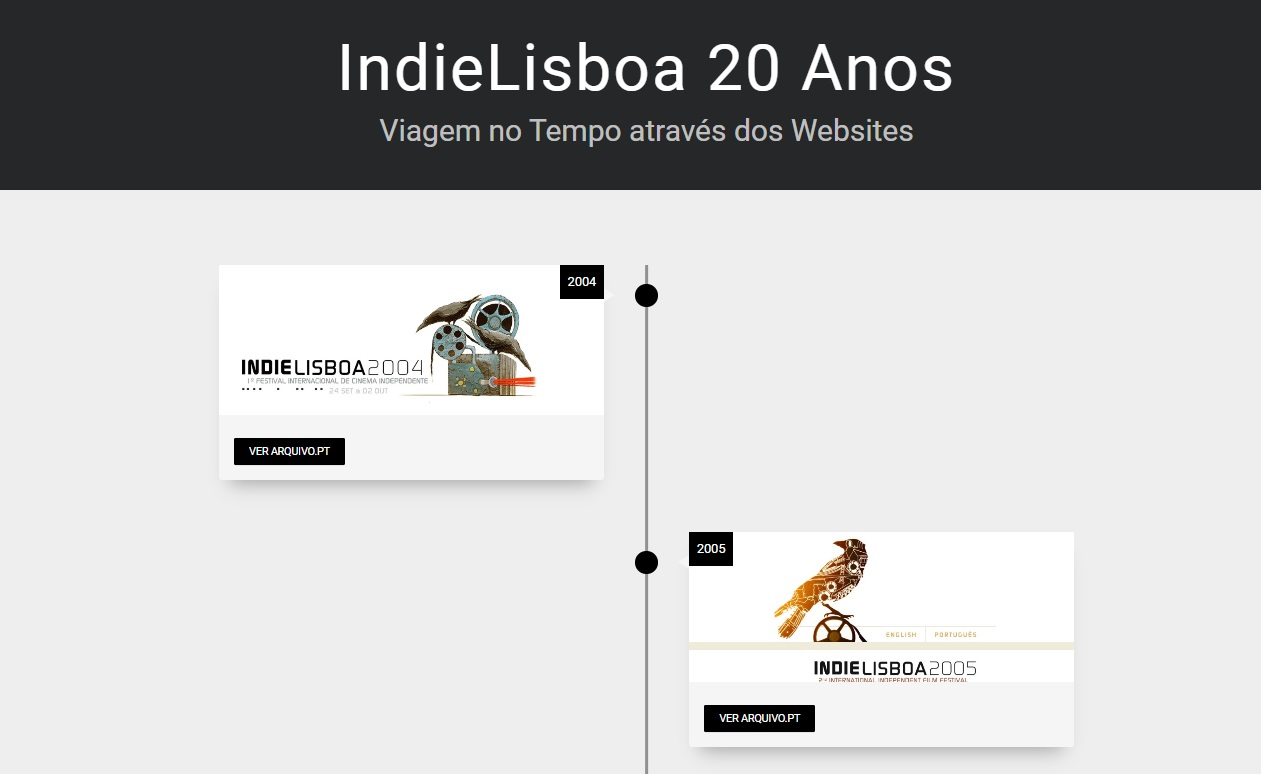
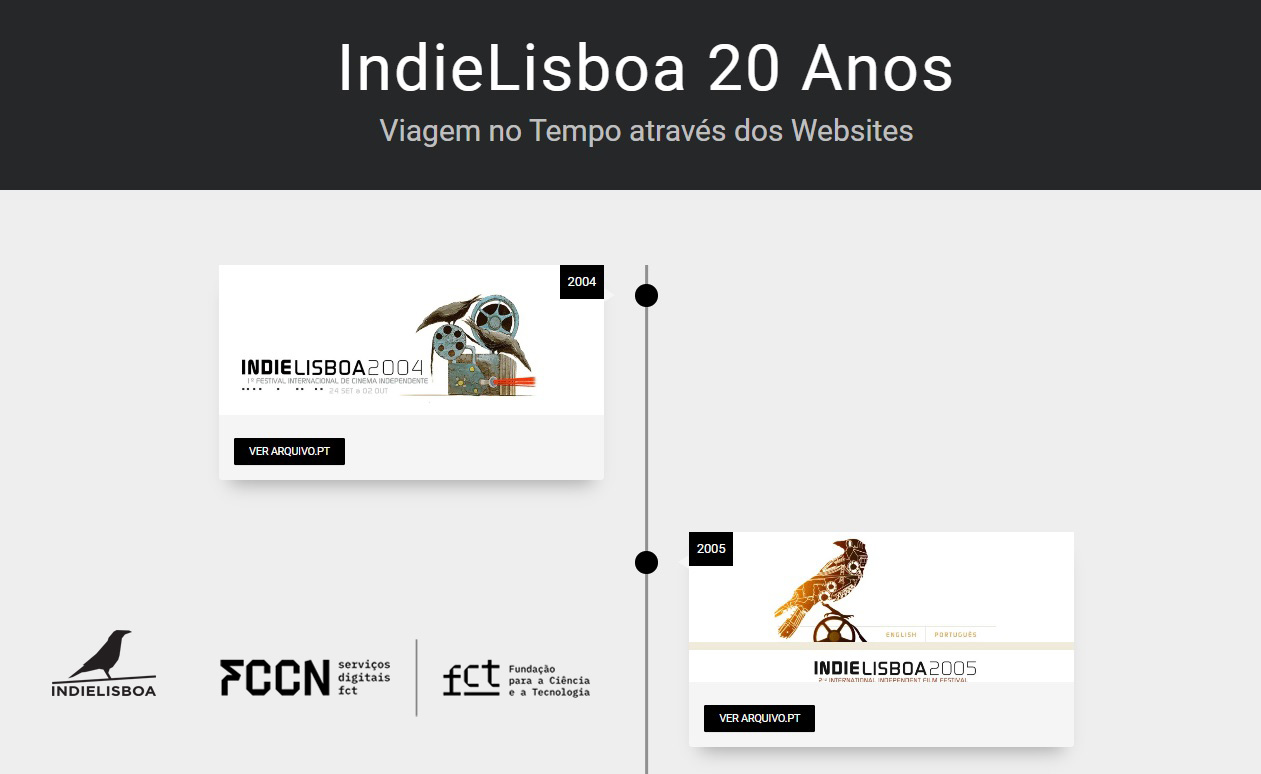
update year card, image 2024,text on sobre_html to the timetravel indielisboa

Changed region(s): [[0.1546, 0.8372, 0.3093, 0.8992], [0.3402, 0.8372, 0.4639, 0.8992], [0.0309, 0.8062, 0.1237, 0.8992]]

diff --git a/indielisboa20anos/sobre.html b/indielisboa20anos/sobre.html
@@ -22,24 +22,23 @@
   <div class="container">
     
     <div id="2004" class="timeline-item">
-        <p style="font-size: 130%;">O Arquivo.pt é um serviço público de preservação da Web que disponibiliza conteúdos publicados nos Websites ao longo do tempo. É operado pela FCCN Serviços digitais da Fundação para a Ciência e a Tecnologia.</p>
+        <p style="font-size: 130%;">O Arquivo.pt é um serviço digital da Fundação para a Ciência e a Tecnologia, desenvolvido pela FCCN. Recolhe e disponibiliza conteúdos publicados nos Websites ao longo do tempo.</p>
         <br>
         <p style="font-size: 130%;">Nos 20 anos do Festival IndieLisboa, convidamos para uma "Viagem no tempo" que leva a navegar nos Websites do passado e a recordar como foi cada edição.</p>
         <br>
-        <p style="font-size: 130%;">Em alguns casos, o que temos desses anos são apenas fragmentos, memórias incompletas, o que torna essa escassa informação ainda mais preciosa.</p>
+        <p style="font-size: 130%;">Em alguns casos, o que temos desses anos são apenas fragmentos, memórias incompletas, o que torna as páginas navegadas ainda mais preciosas.</p>
         <br>
-        <p style="font-size: 130%;">Descubra a história do IndieLisboa.</p>
+        <p style="font-size: 130%;">Descubra a história do IndieLisboa!</p>
       </div>
-    </div> 
+    </div>
 
   </div>
 </section>
 
 <footer>
-
-        <figure><a style ="background: transparent; border-radius: 0; box-shadow: none; padding-right: 100px;" href="https://indielisboa.com/" target="_blank"><img src="images/logo-indielisboa.png" alt="IndieLisboa"/></a></figure>   
-        <figure><a style ="background: transparent; border-radius: 0; box-shadow: none; padding-left: 100px;" href="http://sobre.arquivo.pt" target="_blank"><img src="images/logo-arquivopt.png" alt="Arquivo.pt" /></a></figure>
-
+        <figure><a style ="background: transparent; border-radius: 0; box-shadow: none; padding-right: 100px;" href="https://indielisboa.com/" target="_blank"><img src="images/logo-indielisboa.png" alt="IndieLisboa"/></a></figure>
+        <figure><a style ="background: transparent; border-radius: 0; box-shadow: none; padding-left: 100px;" href="http://sobre.arquivo.pt" target="_blank"><img src="images/logo-fccn-fct.png" alt="FCCN Serviços digitais da Fundação para a Ciência e a Tecnologia" /></a></figure>
+        <figure><a style ="background: transparent; border-radius: 0; box-shadow: none; padding-left: 100px;" href="http://sobre.arquivo.pt" target="_blank"><img src="images/logo-arquivopt.png" alt="Arquivo.pt" /></a></figure>           
 </footer>
 
 

diff --git a/indielisboa20anos/index.html b/indielisboa20anos/index.html
@@ -268,10 +268,9 @@
 </section>
 
 <footer>
-
-        <figure><a style ="background: transparent; border-radius: 0; box-shadow: none; padding-right: 100px;" href="https://indielisboa.com/" target="_blank"><img src="images/logo-indielisboa.png" alt="IndieLisboa"/></a></figure>   
-        <figure><a style ="background: transparent; border-radius: 0; box-shadow: none; padding-left: 100px;" href="http://sobre.arquivo.pt" target="_blank"><img src="images/logo-arquivopt.png" alt="Arquivo.pt" /></a></figure>
-
+        <figure><a style ="background: transparent; border-radius: 0; box-shadow: none; padding-right: 100px;" href="https://indielisboa.com/" target="_blank"><img src="images/logo-indielisboa.png" alt="IndieLisboa"/></a></figure>
+        <figure><a style ="background: transparent; border-radius: 0; box-shadow: none; padding-left: 100px;" href="http://sobre.arquivo.pt" target="_blank"><img src="images/logo-fccn-fct.png" alt="FCCN Serviços digitais da Fundação para a Ciência e a Tecnologia" /></a></figure>
+        <figure><a style ="background: transparent; border-radius: 0; box-shadow: none; padding-left: 100px;" href="http://sobre.arquivo.pt" target="_blank"><img src="images/logo-arquivopt.png" alt="Arquivo.pt" /></a></figure>           
 </footer>
 
 
